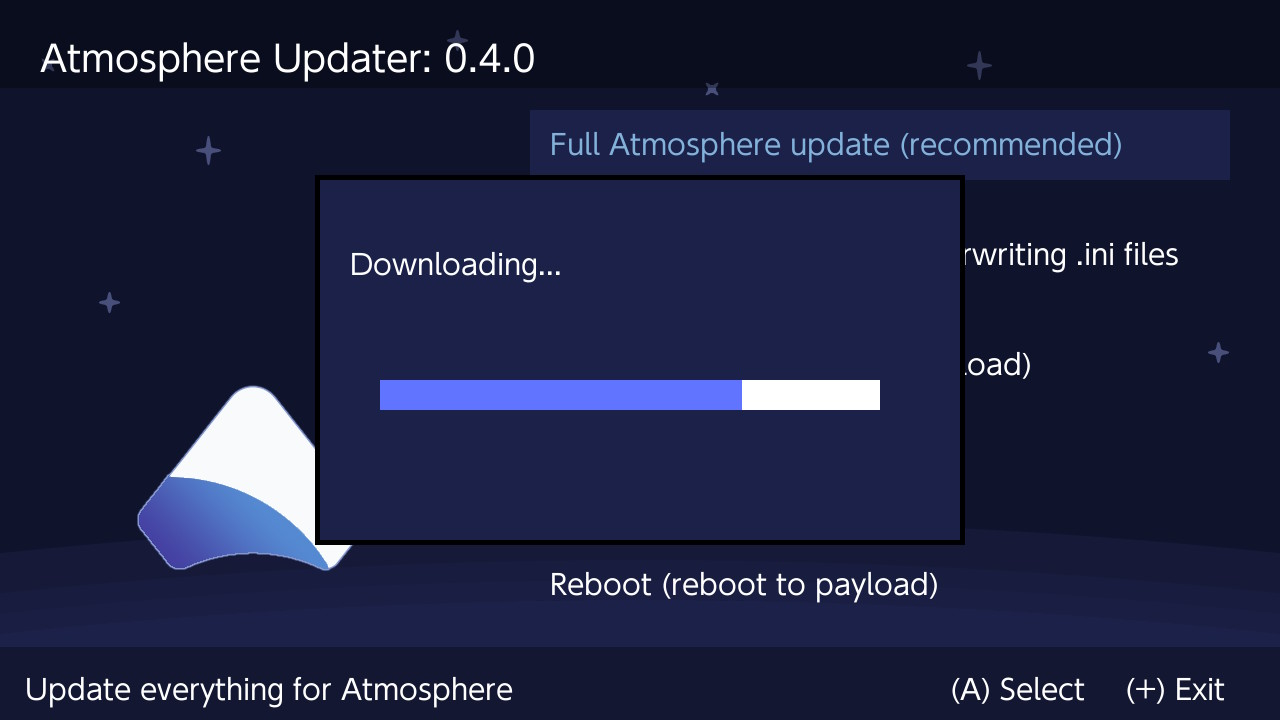
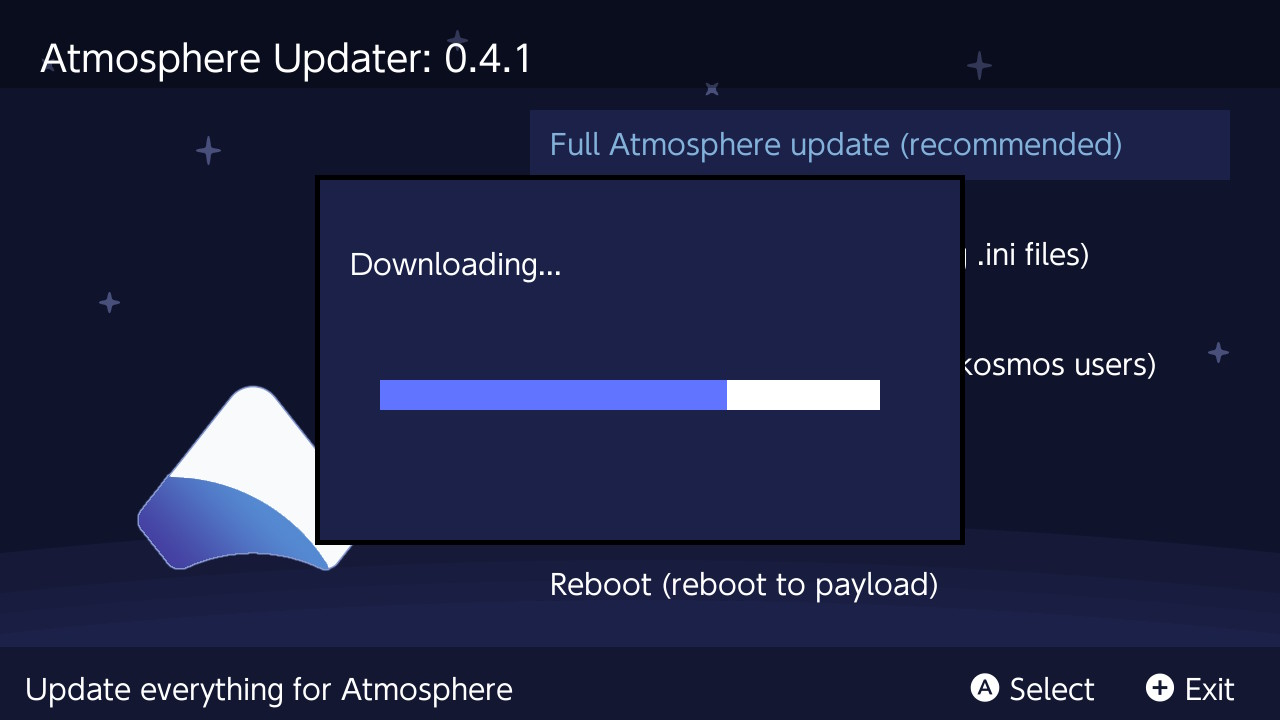
Update for 0.4.1!

diff --git a/source/util.c b/source/util.c
@@ -20,7 +20,7 @@ void copyFile(char *src, char *dest)
     if (srcfile && newfile)
     {
         char buffer[10000]; // 10kb per write, which is fast
-        size_t bytes;
+        size_t bytes;       // size of the file to write (10kb or filesize max)
 
         while (0 < (bytes = fread(buffer, 1, sizeof(buffer), srcfile)))
         {

diff --git a/README.md b/README.md
@@ -33,7 +33,9 @@ __**The app currently has 5 main options.**__
 
 * Installs the latest release of hekate.
 * Option to install latest Atmosphere as well, when selecting update hekate.
-* Replaces **atmosphere/reboot_payload.bin** with the new hekate payload.
+* If option to update Hekate + Atmosphere is selected, the new fusee-primary.bin is copied to **bootloader/payloads/fusee-primary.bin**.
+* Replaces **/atmosphere/reboot_payload.bin** with the new hekate payload.
+* Copies new Hekate payload to **bootloader/update.bin**.
 
 **Update App:**
 
@@ -52,7 +54,7 @@ __**The app currently has 5 main options.**__
 
 [toph](https://github.com/sudot0ph) for the design of the app icon, as well as the most icons used within the app!
 
-[Black Rabbit](https://github.com/BlackRabbit22) for the design of the plus icon!
+[Black Rabbit](https://github.com/BlackRabbit22) for the design of the plus and error icon (and the idea for this app)!
 
 [bandithedoge](https://github.com/bandithedoge) for the background!
 
